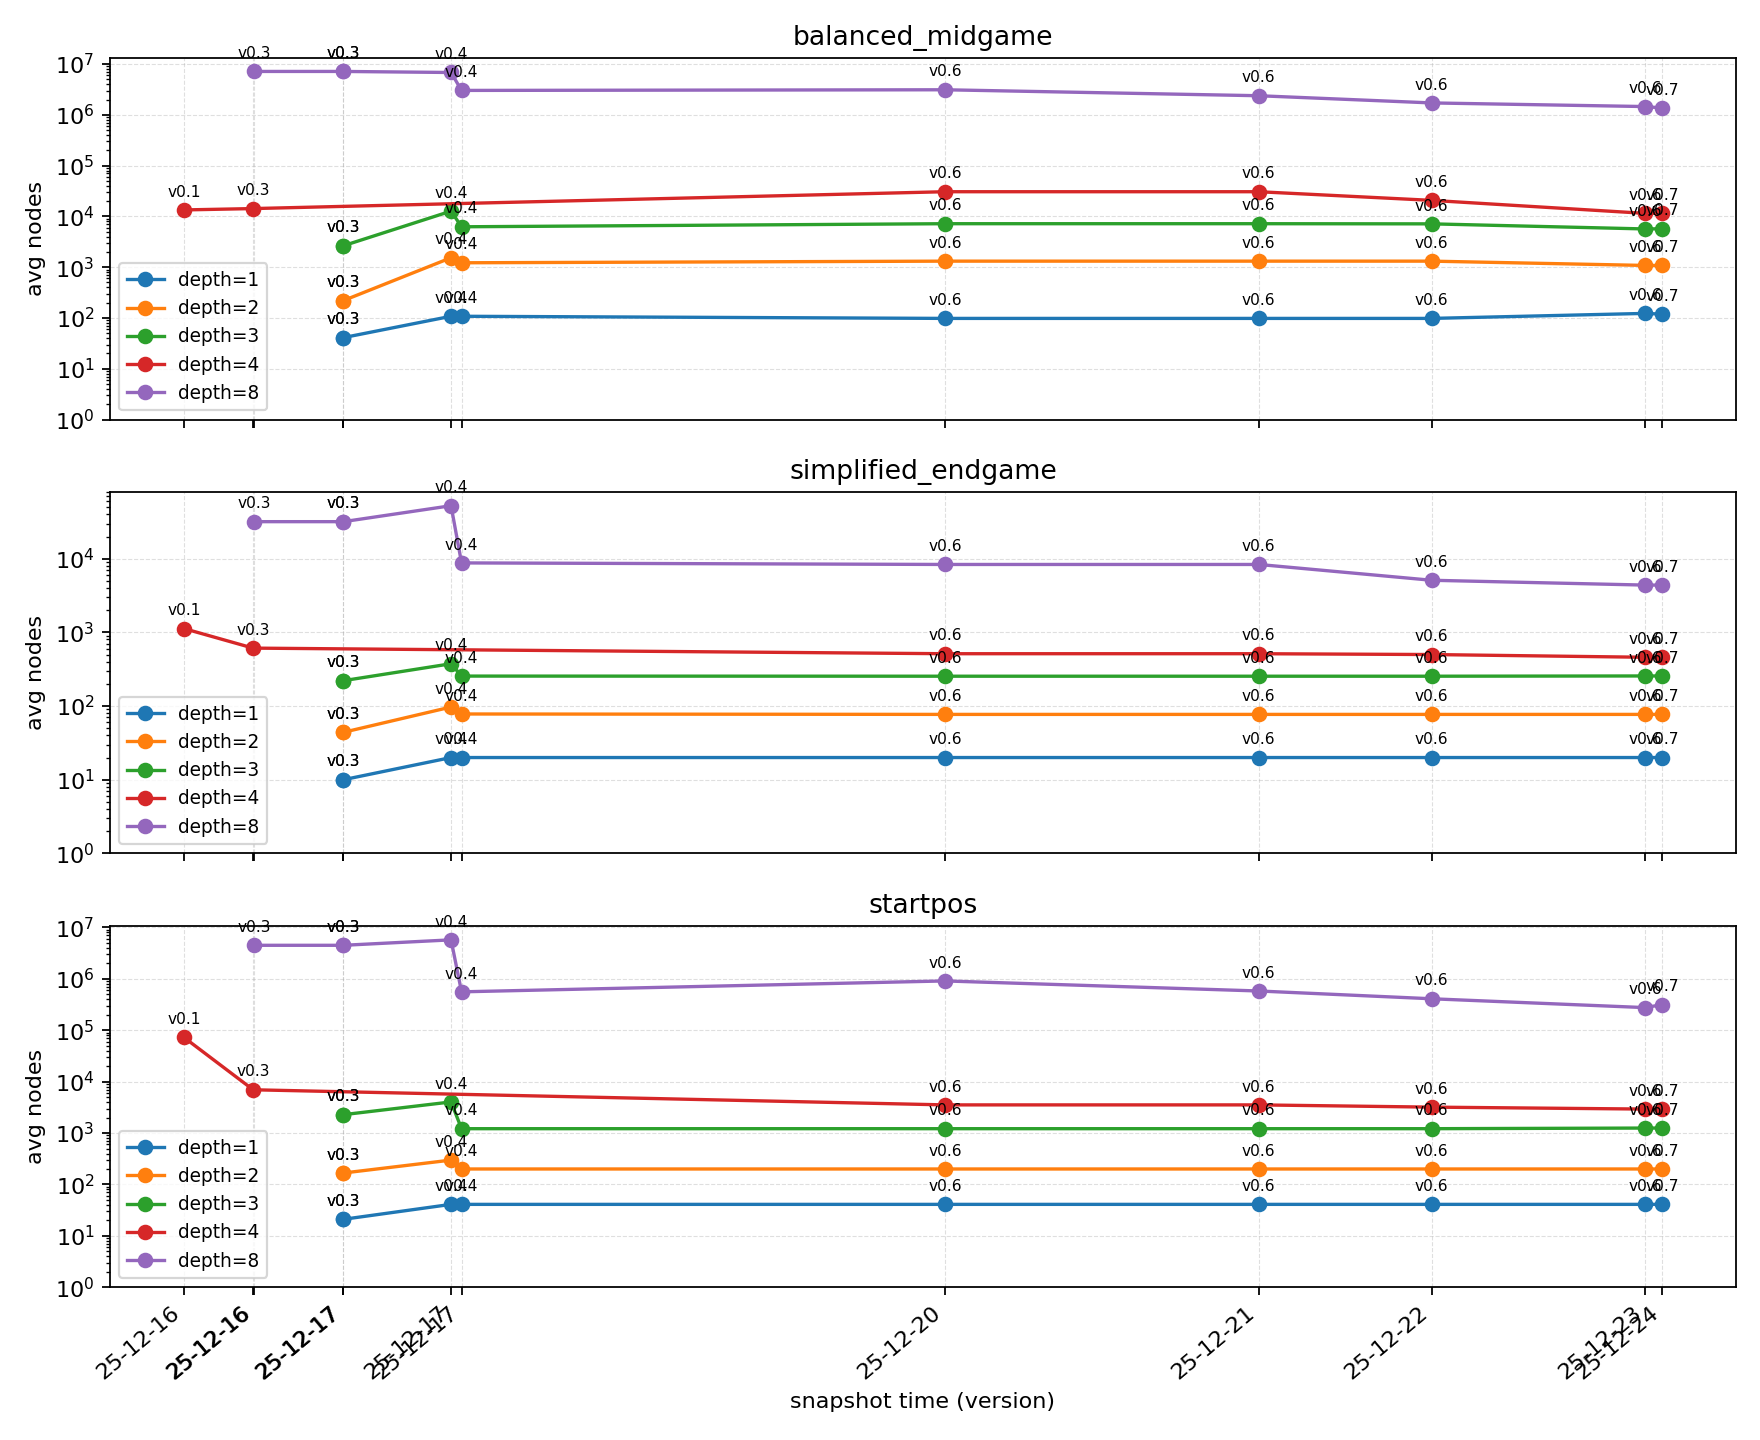
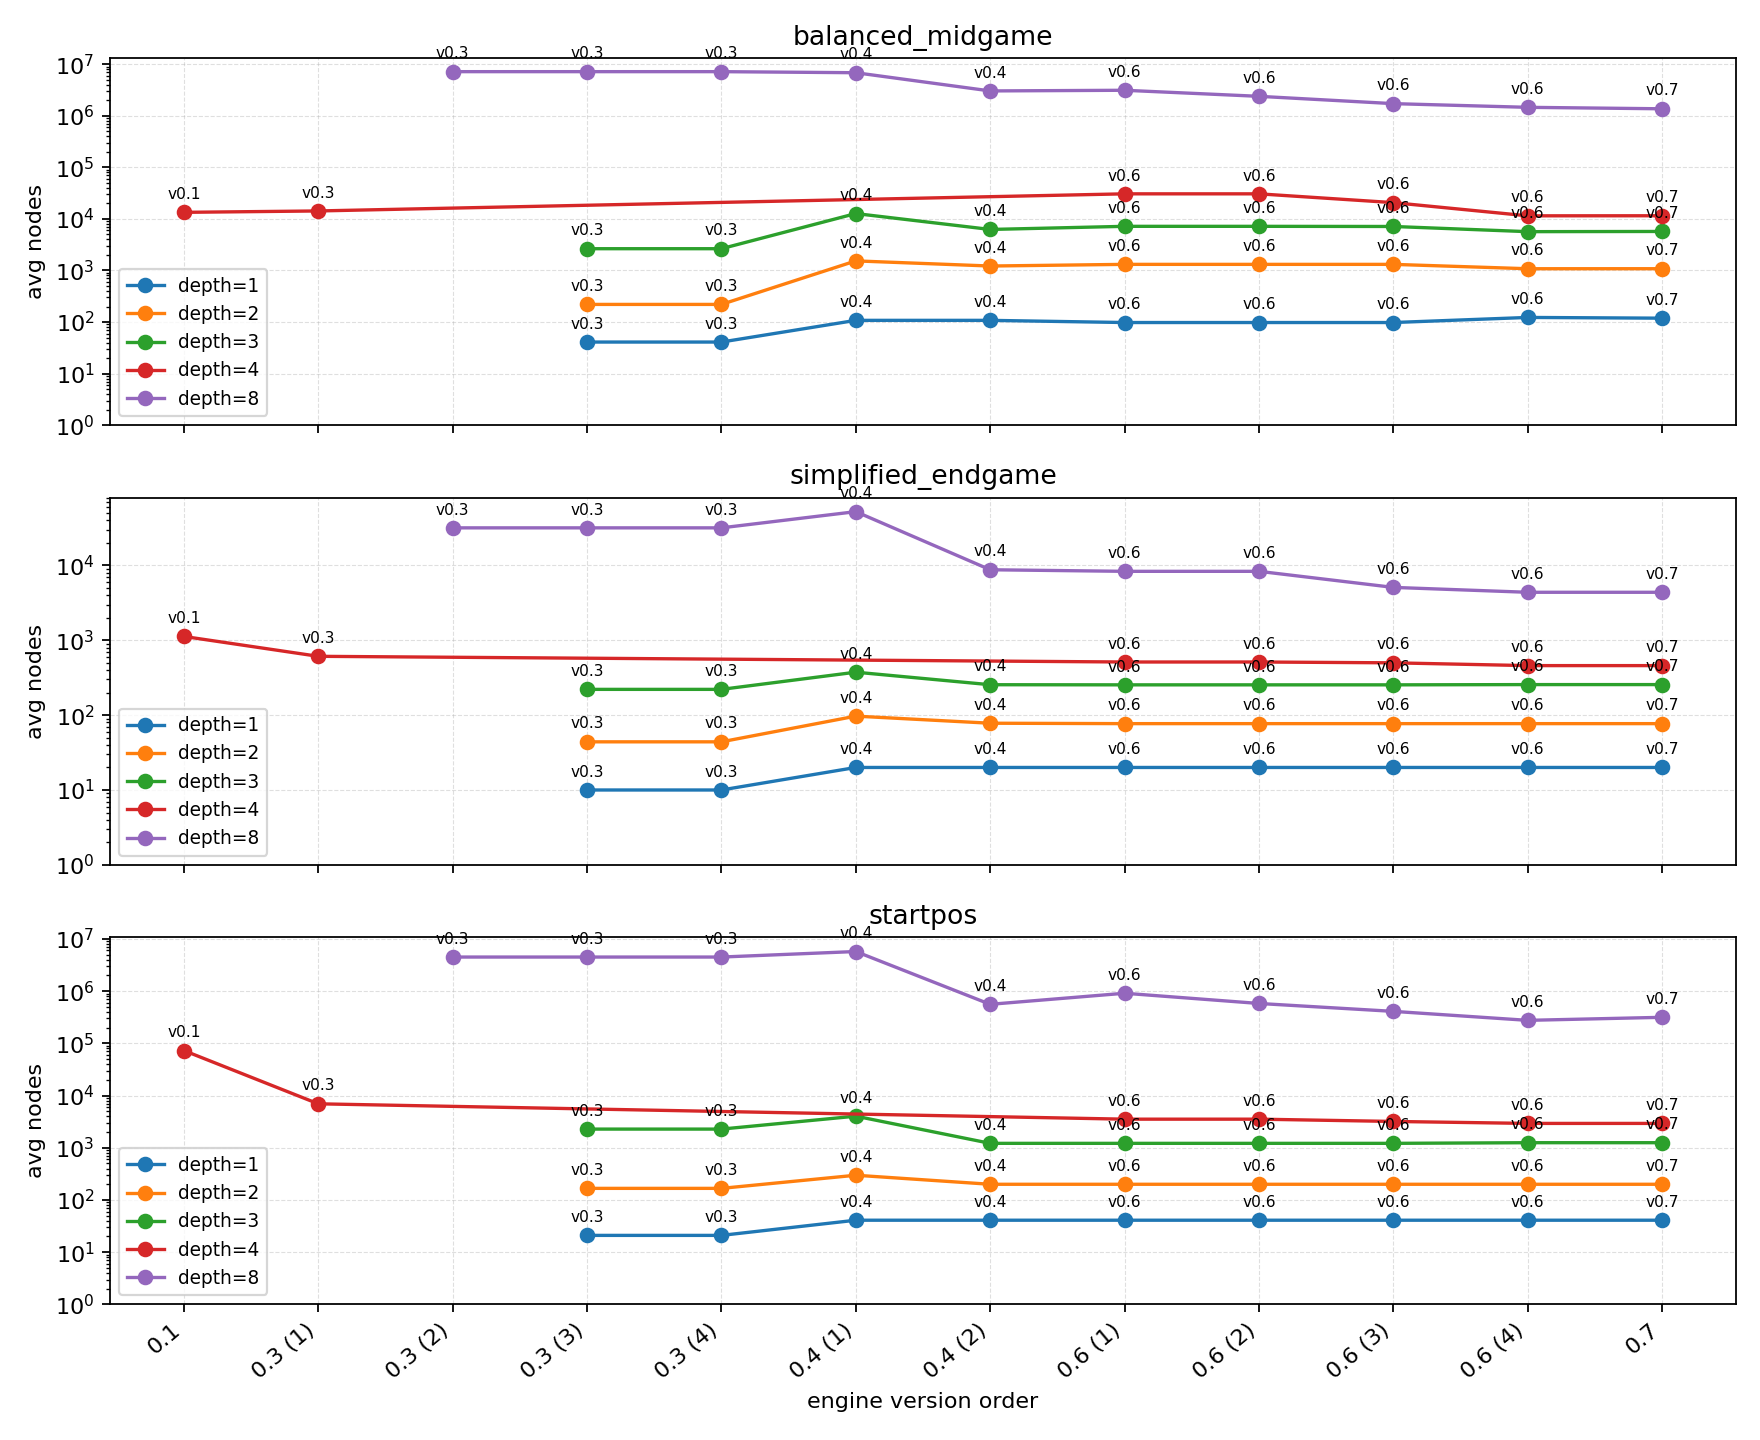
perf plot based on version, not date

diff --git a/tools/plot_perf_runs.py b/tools/plot_perf_runs.py
@@ -5,7 +5,7 @@ from __future__ import annotations
 import argparse
 import re
 import sys
-from collections import defaultdict
+from collections import Counter, defaultdict
 from dataclasses import dataclass
 from datetime import datetime
 from pathlib import Path
@@ -92,6 +92,19 @@ def group_by_case(rows: Iterable[PerfRow]) -> dict[str, list[PerfRow]]:
     return by_case
 
 
+def _version_sort_key(version: str) -> tuple[object, ...]:
+    parts = re.split(r"([0-9]+)", version)
+    key: list[object] = []
+    for part in parts:
+        if not part:
+            continue
+        if part.isdigit():
+            key.append(int(part))
+        else:
+            key.append(part.lower())
+    return tuple(key)
+
+
 def plot_metric(
     rows: Iterable[PerfRow],
     metric: str,
@@ -103,6 +116,16 @@ def plot_metric(
     if not case_map:
         print("no perf data found", file=sys.stderr)
         return
+    ordered_versions = sorted({row.version for row in rows}, key=_version_sort_key)
+    version_index = {version: idx for idx, version in enumerate(ordered_versions)}
+    snapshot_entries = sorted(
+        {(row.version, row.timestamp) for row in rows},
+        key=lambda pair: (version_index.get(pair[0], sys.maxsize), pair[1]),
+    )
+    snapshot_index = {
+        entry: idx for idx, entry in enumerate(snapshot_entries)
+    }
+    version_totals = Counter(version for version, _ in snapshot_entries)
     cases = sorted(case_map)
     fig, axes = plt.subplots(len(cases), 1, sharex=True, figsize=(11, 3 * len(cases)))
     if len(cases) == 1:
@@ -113,8 +136,8 @@ def plot_metric(
         for row in case_rows:
             depth_groups[row.depth].append(row)
         for depth, items in sorted(depth_groups.items()):
-            items.sort(key=lambda r: (r.timestamp, r.version))
-            xs = [r.timestamp for r in items]
+            items.sort(key=lambda r: snapshot_index[(r.version, r.timestamp)])
+            xs = [snapshot_index[(r.version, r.timestamp)] for r in items]
             ys_raw = [getattr(r, metric) for r in items]
             ys = [max(value, 1) for value in ys_raw]
             ax.plot(xs, ys, marker="o", label=f"depth={depth}")
@@ -129,16 +152,22 @@ def plot_metric(
                 )
         ax.set_yscale("log", nonpositive="clip")
         ax.set_ylim(bottom=1)
-        tick_entries = sorted({(r.timestamp, r.version) for r in case_rows})
-        tick_positions = [ts for ts, _ in tick_entries]
-        tick_labels = [f"{ts:%y-%m-%d}" for ts, _ in tick_entries]
+        tick_positions = [snapshot_index[entry] for entry in snapshot_entries]
+        occurrence_counts: Counter[str] = Counter()
+        tick_labels: list[str] = []
+        for version, _ in snapshot_entries:
+            occurrence_counts[version] += 1
+            if version_totals[version] > 1:
+                tick_labels.append(f"{version} ({occurrence_counts[version]})")
+            else:
+                tick_labels.append(version)
         ax.set_xticks(tick_positions)
         ax.set_xticklabels(tick_labels, rotation=40, ha="right")
         ax.set_ylabel(ylabel)
         ax.set_title(case)
         ax.grid(True, linestyle="--", linewidth=0.5, alpha=0.4)
         ax.legend(loc="best", fontsize="small")
-    axes[-1].set_xlabel("snapshot time (version)")
+    axes[-1].set_xlabel("engine version order")
     fig.tight_layout()
     if show:
         return

diff --git a/validation_moves/fight_against_engine.py b/validation_moves/fight_against_engine.py
@@ -252,7 +252,7 @@ def run_game(
 
     try:
         with (
-            UciEngine(opponent_path, timeout=30.0) as opponent,
+            UciEngine(opponent_path, timeout=240.0) as opponent,
             UciEngine(reference_path, timeout=240.0) as reference,
         ):
             clock: Optional[MatchClock] = None
